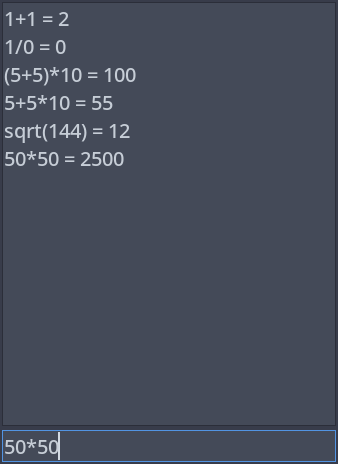
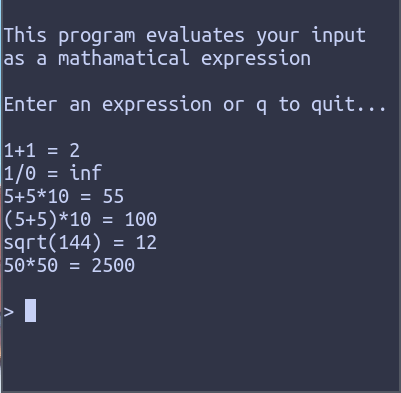
ported to nothing

diff --git a/include/tinyexpr.h b/include/tinyexpr.h
@@ -1,0 +1,87 @@
+// SPDX-License-Identifier: Zlib
+/*
+ * TINYEXPR - Tiny recursive descent parser and evaluation engine in C
+ *
+ * Copyright (c) 2015-2020 Lewis Van Winkle
+ *
+ * http://CodePlea.com
+ *
+ * This software is provided 'as-is', without any express or implied
+ * warranty. In no event will the authors be held liable for any damages
+ * arising from the use of this software.
+ *
+ * Permission is granted to anyone to use this software for any purpose,
+ * including commercial applications, and to alter it and redistribute it
+ * freely, subject to the following restrictions:
+ *
+ * 1. The origin of this software must not be misrepresented; you must not
+ * claim that you wrote the original software. If you use this software
+ * in a product, an acknowledgement in the product documentation would be
+ * appreciated but is not required.
+ * 2. Altered source versions must be plainly marked as such, and must not be
+ * misrepresented as being the original software.
+ * 3. This notice may not be removed or altered from any source distribution.
+ */
+
+#ifndef TINYEXPR_H
+#define TINYEXPR_H
+
+
+#ifdef __cplusplus
+extern "C" {
+#endif
+
+
+
+typedef struct te_expr {
+    int type;
+    union {double value; const double *bound; const void *function;};
+    void *parameters[1];
+} te_expr;
+
+
+enum {
+    TE_VARIABLE = 0,
+
+    TE_FUNCTION0 = 8, TE_FUNCTION1, TE_FUNCTION2, TE_FUNCTION3,
+    TE_FUNCTION4, TE_FUNCTION5, TE_FUNCTION6, TE_FUNCTION7,
+
+    TE_CLOSURE0 = 16, TE_CLOSURE1, TE_CLOSURE2, TE_CLOSURE3,
+    TE_CLOSURE4, TE_CLOSURE5, TE_CLOSURE6, TE_CLOSURE7,
+
+    TE_FLAG_PURE = 32
+};
+
+typedef struct te_variable {
+    const char *name;
+    const void *address;
+    int type;
+    void *context;
+} te_variable;
+
+
+
+/* Parses the input expression, evaluates it, and frees it. */
+/* Returns NaN on error. */
+double te_interp(const char *expression, int *error);
+
+/* Parses the input expression and binds variables. */
+/* Returns NULL on error. */
+te_expr *te_compile(const char *expression, const te_variable *variables, int var_count, int *error);
+
+/* Evaluates the expression. */
+double te_eval(const te_expr *n);
+
+/* Prints debugging information on the syntax tree. */
+void te_print(const te_expr *n);
+
+/* Frees the expression. */
+/* This is safe to call on NULL pointers. */
+void te_free(te_expr *n);
+
+
+#ifdef __cplusplus
+}
+#endif
+
+#endif /*TINYEXPR_H*/

diff --git a/src/tinyexpr.c b/src/tinyexpr.c
@@ -1,5 +1,3 @@
-//gcc tinyexpr.c -shared -fPIC -lm -I/usr/include/tcl -o tinyexpr.so
-
 // SPDX-License-Identifier: Zlib
 /*
  * TINYEXPR - Tiny recursive descent parser and evaluation engine in C
@@ -37,40 +35,13 @@ For log = base 10 log do nothing
 For log = natural log uncomment the next line. */
 /* #define TE_NAT_LOG */
 
+#include "tinyexpr.h"
 #include <stdlib.h>
 #include <math.h>
 #include <string.h>
 #include <stdio.h>
 #include <ctype.h>
 #include <limits.h>
-
-typedef struct te_expr {
-    int type;
-    union {double value; const double *bound; const void *function;};
-    void *parameters[1];
-} te_expr;
-
-
-enum {
-    TE_VARIABLE = 0,
-
-    TE_FUNCTION0 = 8, TE_FUNCTION1, TE_FUNCTION2, TE_FUNCTION3,
-    TE_FUNCTION4, TE_FUNCTION5, TE_FUNCTION6, TE_FUNCTION7,
-
-    TE_CLOSURE0 = 16, TE_CLOSURE1, TE_CLOSURE2, TE_CLOSURE3,
-    TE_CLOSURE4, TE_CLOSURE5, TE_CLOSURE6, TE_CLOSURE7,
-
-    TE_FLAG_PURE = 32
-};
-
-typedef struct te_variable {
-    const char *name;
-    const void *address;
-    int type;
-    void *context;
-} te_variable;
-
-void te_free(te_expr *n);
 
 #ifndef NAN
 #define NAN (0.0/0.0)
@@ -760,27 +731,4 @@ static void pn (const te_expr *n, int depth) {
 
 void te_print(const te_expr *n) {
     pn(n, 0);
-}
-
-
-/************************
- * tcl calculate funtion *
- ************************/
-
-#include <tcl.h>
-
-int calculate(ClientData clientData, Tcl_Interp *interp, int argc, const char *argv[]) {
-
-    double result = te_interp(argv[1], NULL);
-
-    Tcl_Obj *result_obj = Tcl_NewDoubleObj(result);
-
-    Tcl_SetObjResult(interp, result_obj);
-
-    return TCL_OK;
-}
-
-int DLLEXPORT Tinyexpr_Init(Tcl_Interp *interp) {
-    Tcl_CreateCommand(interp, "calculate", calculate, NULL, NULL);
-    return TCL_OK;
 }

diff --git a/src/main.c b/src/main.c
@@ -1,0 +1,29 @@
+#include <stdio.h>
+#include <readline/readline.h>
+#include <readline/history.h>
+#include <stdlib.h>
+#include "tinyexpr.h"
+
+/*
+\033[A move up
+\033[2K clear line
+*/
+int main(void)
+{
+	puts("\nThis program evaluates your input\nas a mathamatical expression\n\nEnter an expression or q to quit...\n\n");
+	char * input;
+
+	while(1)
+	{
+		input = readline("> ");
+		if (input[0] == 'q') {break;}
+		printf(
+			"\033[A"  // move
+			"\033[2K" // clear
+			"\033[A"  // move
+			"%s = %g\n\n", input, te_interp(input, NULL));
+		add_history(input);
+		free(input);
+	}
+	return 0;
+}

diff --git a/README.md b/README.md
@@ -1,8 +1,11 @@
 ## Example
 ![screenshot.png](https://github.com/aussie114/calculator/blob/master/screenshots/screenshot.png)  
 
+## Dependencies  
+readline math  
+
 ## About  
-A simple calculator made in tk/tcl and tinyexpr. 
+A simple calculator using tinyexpr. 
 
 ## Usage  
 This program evaluates strings as mathamatical expressions using the [tinyexpr](https://github.com/codeplea/tinyexpr/) library  
